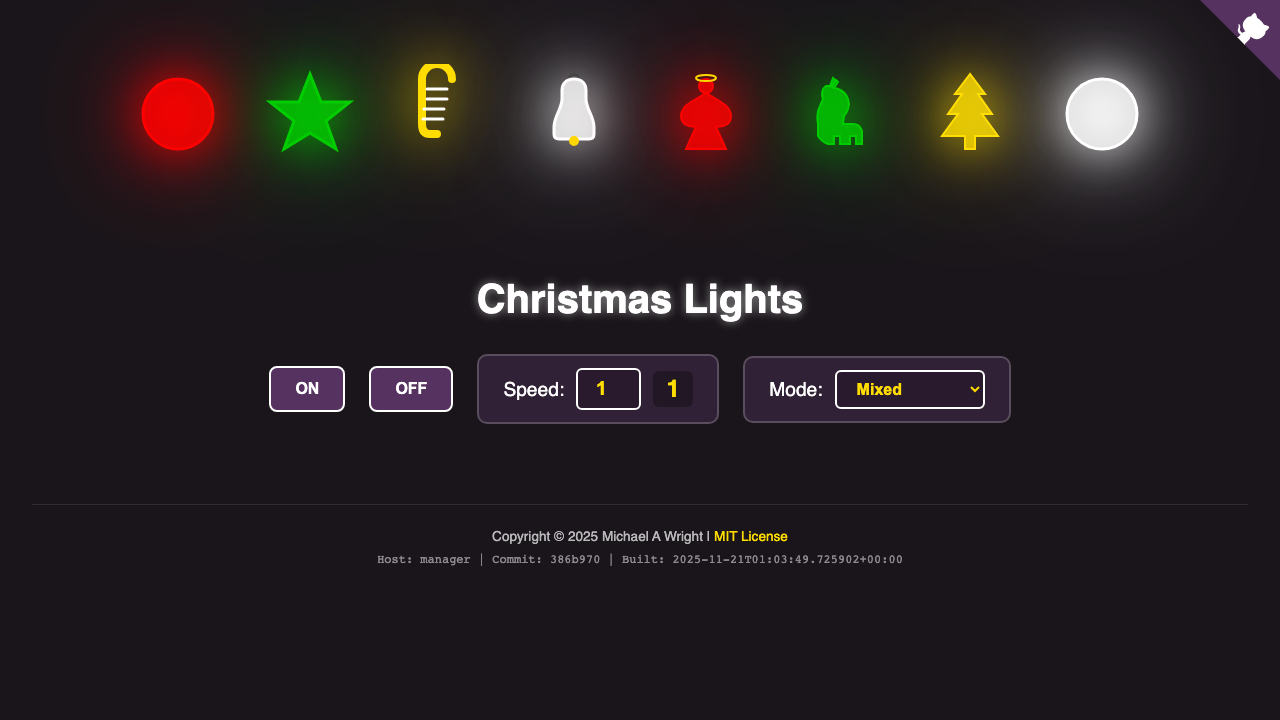
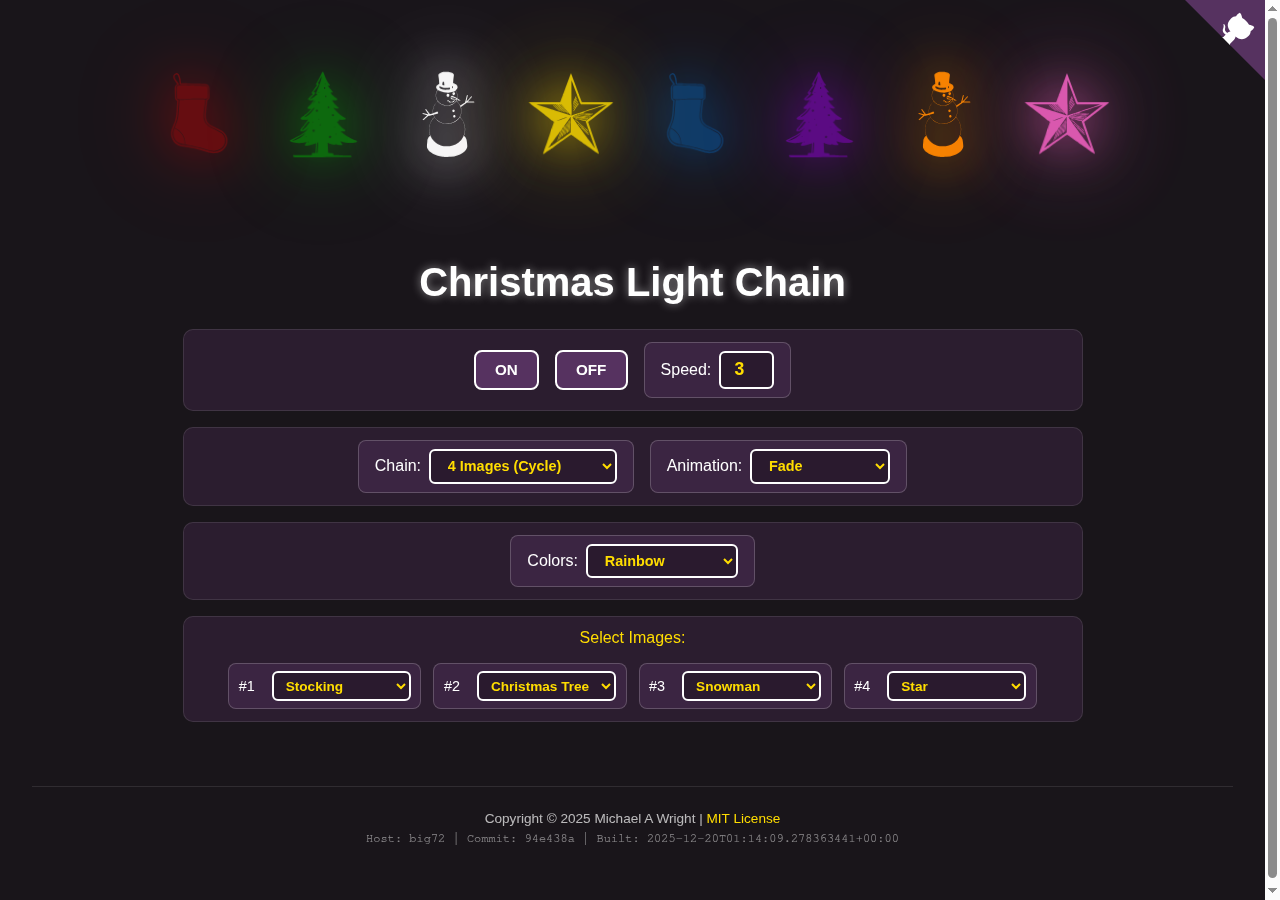
Fix GitHub Pages deployment and add live demo link
- Add public-url=/xmas-rs/ to Trunk.toml for correct asset paths
- Update README with live demo link and cache-busting timestamp
- Update screenshot with new timestamp
- Rebuild docs/ with correct paths

🤖 Generated with [Claude Code](https://claude.com/claude-code)

diff --git a/docs/index.html b/docs/index.html
@@ -9,7 +9,7 @@
     <title>Christmas Lights</title>
     <link rel="icon" href="/favicon-904fffe89ea23b44.ico" integrity="sha384-xiuoj6E2C0UyllX+8JzQ72Hkptt+fBWOEJHZhTfzOLBYiVzVvXK7P/eFAdumzvoO"/>
     <link rel="stylesheet" href="/styles-21ef7f2f9c6ef325.css" integrity="sha384-6LyNXn0Cz7rtDHgaLRPmoQGJRGTYoaQCYxwQzU5q970gn5FHB4ABt5tZsT3H6fjX"/>
-<link rel="modulepreload" href="/xmas-rs-50835770be0b655b.js" crossorigin="anonymous" integrity="sha384-/zK9qlbVyVgq0rzA+8l/NUN7WhNk0WLsPZH+AA2EJ5c343Tsa5IJ+EBC5xie20Kz"><link rel="preload" href="/xmas-rs-50835770be0b655b_bg.wasm" crossorigin="anonymous" integrity="sha384-Krn3rUQh5uWatCu+pyrvZG0bmHjC8BqmttXjuKvhgmM4vbbveyUV2NZpF4feL7hH" as="fetch" type="application/wasm"></head>
+<link rel="modulepreload" href="/xmas-rs-50835770be0b655b.js" crossorigin="anonymous" integrity="sha384-PMmf3iTNv7tCNgkAzVrYnmcHGnyItPRix+/il+CaA7dV9VKRfEfXEjv0pLW8m/ld"><link rel="preload" href="/xmas-rs-50835770be0b655b_bg.wasm" crossorigin="anonymous" integrity="sha384-SmmyMV4bx6tFiYfaPJP7NN2WIgBjwcJR6bGCBDX1yUhPMc8N0SU960630wxIVGjH" as="fetch" type="application/wasm"></head>
 <body>
 <script type="module">
 import init, * as bindings from '/xmas-rs-50835770be0b655b.js';

diff --git a/README.md b/README.md
@@ -2,9 +2,11 @@
 
 A Rust implementation of a customizable Christmas light chain animation using the Yew framework. Build your own festive light display with 13 unique SVG shapes, multiple color modes, and various animation effects.
 
+**[🎄 Live Demo](https://softwarewrighter.github.io/xmas-rs/?ts=1766194509234)**
+
 ## Screenshot
 
-![Christmas Lights Demo](./images/screenshot.png?ts=1763687154000)
+![Christmas Lights Demo](./images/screenshot.png?ts=1766194509234)
 
 ## Features
 
